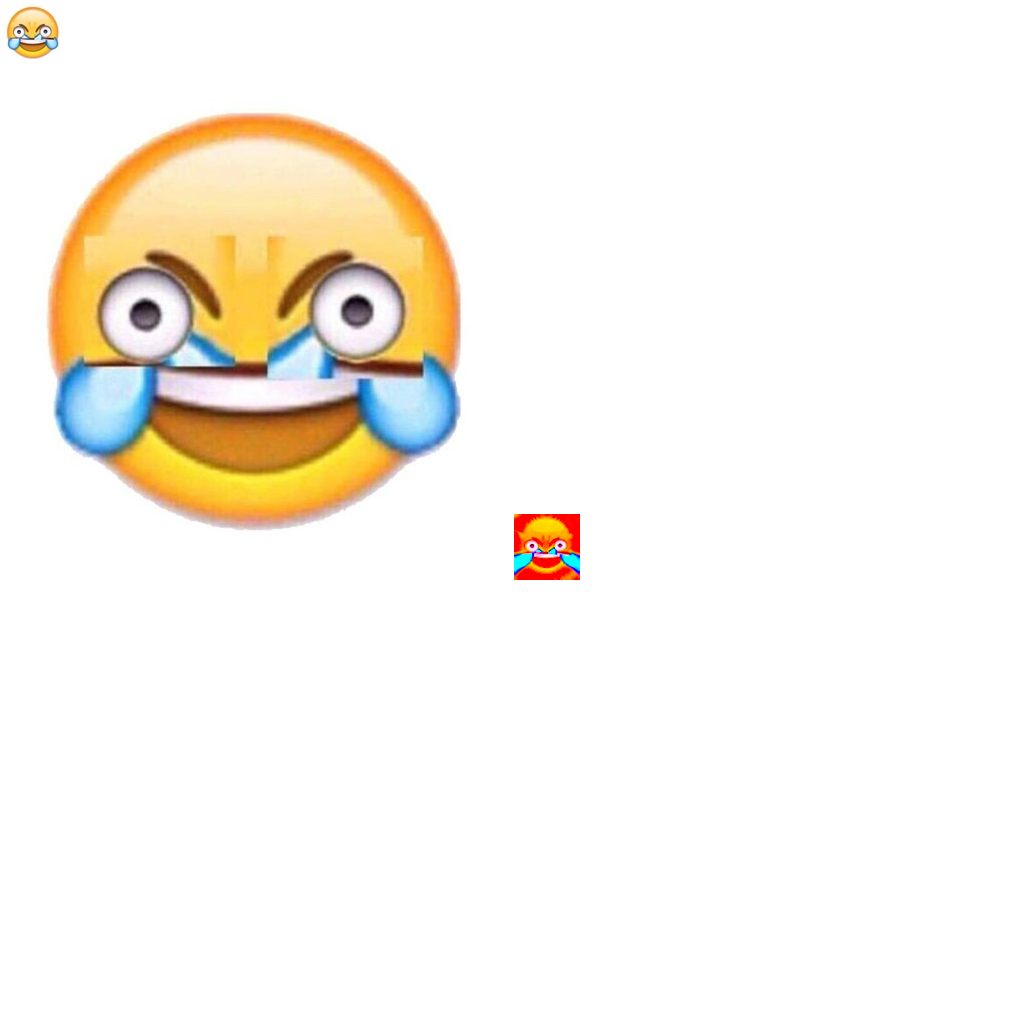
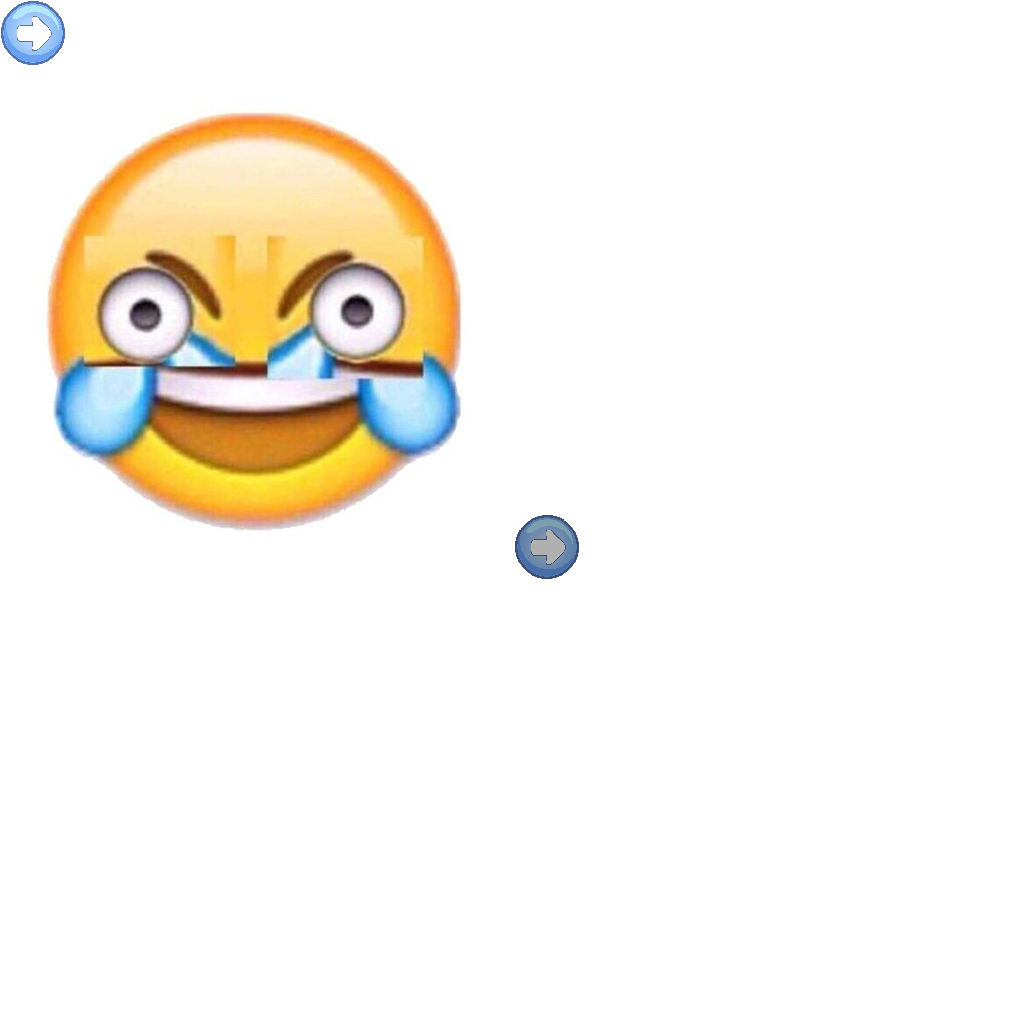
Changed the end turn button, prints inventory every turn for debug

Changed region(s): [[0.5, 0.5, 0.5938, 0.5938], [0.0, 0.0, 0.0625, 0.0625]]

diff --git a/core/src/com/pi4/mgmtgame/Inventory.java b/core/src/com/pi4/mgmtgame/Inventory.java
@@ -27,42 +27,42 @@ public class Inventory {
 		seeds[1]=new PotatoSeeds();
 		seeds[2]=new CarrotSeeds();
 		seeds[3]=new TreeSeeds();
-		money = 1000;
+		money = 2000;
 		for(int i=0;i<4;i++)
-			seeds[i].addVolume(1);
+			seeds[i].addVolume(2);
 	}
-	
+
 	public Inventory (Plant[] plantArray, Grain[] grainArray, int money) {
 		plants = new Plant[10];
 		seeds = new Grain[10];
 		this.money = money;
 	}
-	
-	
+
+
 	public void removePlant(int id, int value) {
 		this.plants[id].subVolume(value);
 	}
-	
+
 	public void addPlant(int id, int value) {
 		this.plants[id].addVolume(value);
 	}
-	
+
 	public void removeGrain(int id, int value) {
 		this.seeds[id].subVolume(value);
 	}
-	
+
 	public void addGrain(int id, int value) {
 		this.seeds[id].addVolume(value);
 	}
-	
+
 	public void giveMoney(int value) {
 		this.money -= value;
 	}
-	
+
 	public void receiveMoney(int value) {
 		this.money += value;
 	}
-	
+
 	public int getMoney() {
 		return money;
 	}
@@ -73,7 +73,7 @@ public class Inventory {
 	public boolean hasGrain(int i) {
 		return (this.seeds[i].getVolume() > 0);
 	}
-	
+
 	public boolean hasPlant(Plant plant) {
 		return (this.plants[plant.getId()].getVolume() > 0);
 	}
@@ -86,5 +86,10 @@ public class Inventory {
 	}
 	public Plant[] getPlants() {
 		return plants;
+	}
+
+	@Override
+	public String toString() {
+		return this.money+"$\nWheat seeds: "+this.seeds[0].getVolume()+"\nPotato seeds: "+this.seeds[1].getVolume()+"\nCarrot seeds: "+this.seeds[2].getVolume();
 	}
 }

diff --git a/core/src/com/pi4/mgmtgame/ServerInteraction.java b/core/src/com/pi4/mgmtgame/ServerInteraction.java
@@ -98,6 +98,7 @@ public class ServerInteraction {
 					currBlock.passTurn();
 			}
 		}
+		System.out.println(this.inv);
 	}
 
 
